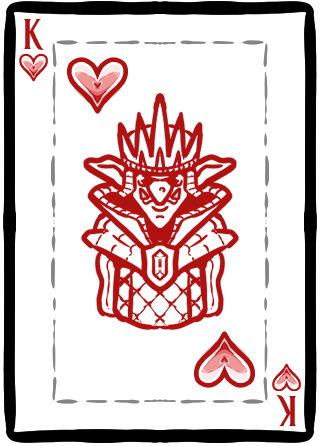
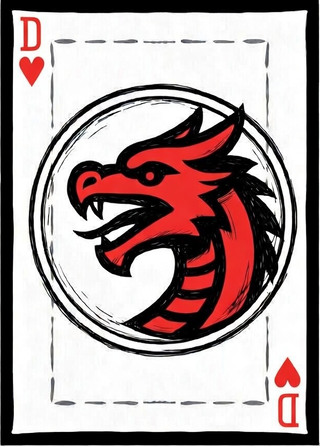
add red dragon card, update PLAN.md with detailed roadmap
- Add red dragon card art (d_red.png, 320x446)
- Update PLAN.md: detailed tutorial concept (7 interactive steps),
  start screen design, victory screen improvements, button styling

diff --git a/PLAN.md b/PLAN.md
@@ -4,24 +4,63 @@
 Довести игру до публикации на Яндекс Играх (HTML5). Красивое оформление, респонсив, стартовый экран.
 
 ## Фаза 1: Визуал и ассеты
-- [x] Фон стола (тёмно-зелёное сукно) — `assets/background/table.jpg`
-- [x] Кнопки драконов в едином sketchy стиле (red, blue, green, grey) — `assets/buttons/`
-- [ ] Рамки слотов (free cell, tableau, base, flower) — стилизованные под hand-drawn
+- [x] Фон стола (тёмно-зелёное сукно)
+- [x] Кнопки драконов в sketchy стиле (red, blue, green, grey)
+- [x] Карты драконов — новые с драконами вместо королей (red, blue, green)
+- [ ] Карта цветка — заменить туза на лотос/цветок
+- [ ] Рамки слотов — стилизовать (free cell, tableau, base)
+- [ ] Flower slot — переделать рамку (сейчас серая, не в стиле)
 - [ ] Обложка для Яндекс Игр (800x450)
 - [ ] Иконка игры (512x512)
-- [ ] Кнопка "Играть" для меню
 
-## Фаза 2: Подключение ассетов
-- [ ] Обновить main.atlas — новые кнопки драконов
-- [ ] Добавить фон стола в коллекцию как спрайт
-- [ ] Убрать старые глянцевые кнопки
-- [ ] Подогнать размеры новых ассетов под игровые объекты (32x32 кнопки итд)
+## Фаза 2: UI / Дизайн экранов
+- [x] Кнопка Restart в игре
+- [x] Victory popup ("You win!!!")
+- [ ] **Стартовый экран** — заглавный экран перед игрой:
+  - Фон (тот же стол или отдельный арт)
+  - Логотип/название игры "Dragon Solitaire" или "Shenzhen Solitaire"
+  - Кнопка "PLAY" (стилизованная, в стиле карт)
+  - Кнопка "Tutorial"
+  - Опционально: кнопка "Settings"
+- [ ] **Финальный экран (Victory)** — переделать:
+  - Сейчас просто зелёный квадрат с текстом — некрасиво
+  - Добавить анимацию (карты разлетаются, конфетти, блеск)
+  - Показать статистику (время, ходы)
+  - Кнопки: "Play Again", "Menu"
+  - Затемнение фона под попапом
+- [ ] **Дизайн кнопок** — Restart/Tutorial сейчас белый фон, нет стиля:
+  - Стилизовать под hand-drawn (как карты)
+  - Перенести в правильное место (не перекрывать слоты)
+  - Добавить иконки (↻ для restart, ? для tutorial)
 
-## Фаза 3: UI / Меню
-- [ ] Стартовый экран (GUI) — фон + логотип + кнопка "Играть"
-- [ ] Кнопка "New Game" в игре
-- [ ] Экран победы (Win screen)
-- [ ] Туториал (опционально)
+## Фаза 3: Интерактивный туториал
+Идея: пошаговое обучение при первом запуске.
+
+**Шаг 1 — Обзор поля:**
+- Затемнить всё кроме зоны, полупрозрачный overlay
+- Подсветить tableau (8 стопок внизу) → текст: "Это игровое поле. Карты раскладываются здесь."
+
+**Шаг 2 — Правила стекинга:**
+- Подсветить одну стопку → текст: "Кладите карты ДРУГОЙ масти с уменьшающимся значением"
+- Показать пример: 7♥ на 8♠ (можно), 7♥ на 8♥ (нельзя)
+
+**Шаг 3 — Free Cells:**
+- Подсветить 3 ячейки слева сверху → текст: "Сюда можно положить любую карту. Максимум 3."
+
+**Шаг 4 — Base Slots:**
+- Подсветить 3 ячейки справа сверху → текст: "Собирайте карты одной масти от 2 до 10. Цель — заполнить все три."
+
+**Шаг 5 — Драконы:**
+- Подсветить кнопки драконов + карты-драконы → текст: "Когда все 4 дракона одного цвета видны — нажмите кнопку, чтобы собрать их."
+
+**Шаг 6 — Цветок:**
+- Подсветить flower slot → текст: "Карта цветка автоматически уходит в свой слот."
+
+**Шаг 7 — Победа:**
+- Текст: "Очистите поле, разложив все карты — и вы победите!"
+- Кнопка "Начать игру"
+
+Реализация: GUI overlay с текстом + подсветка зон через затемнение. Управление — тап для следующего шага.
 
 ## Фаза 4: Респонсив (HTML5)
 - [ ] Подключить кастомный render.script в game.project
@@ -39,4 +78,3 @@
 - [ ] Разбить cursor.script на модули
 - [ ] Вынести хардкод координат в конфиг
 - [ ] Доделать логику победы
-- [ ] Реализовать перезапуск игры
